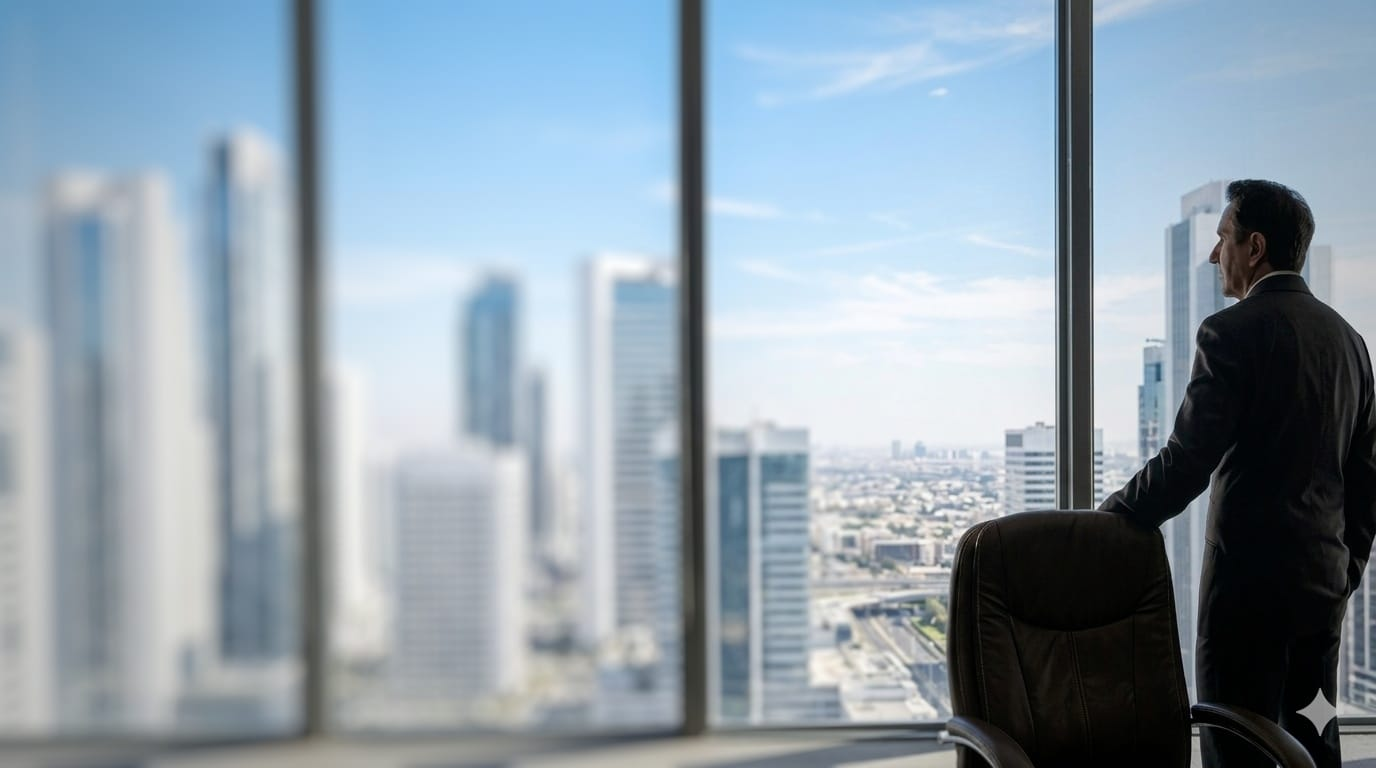
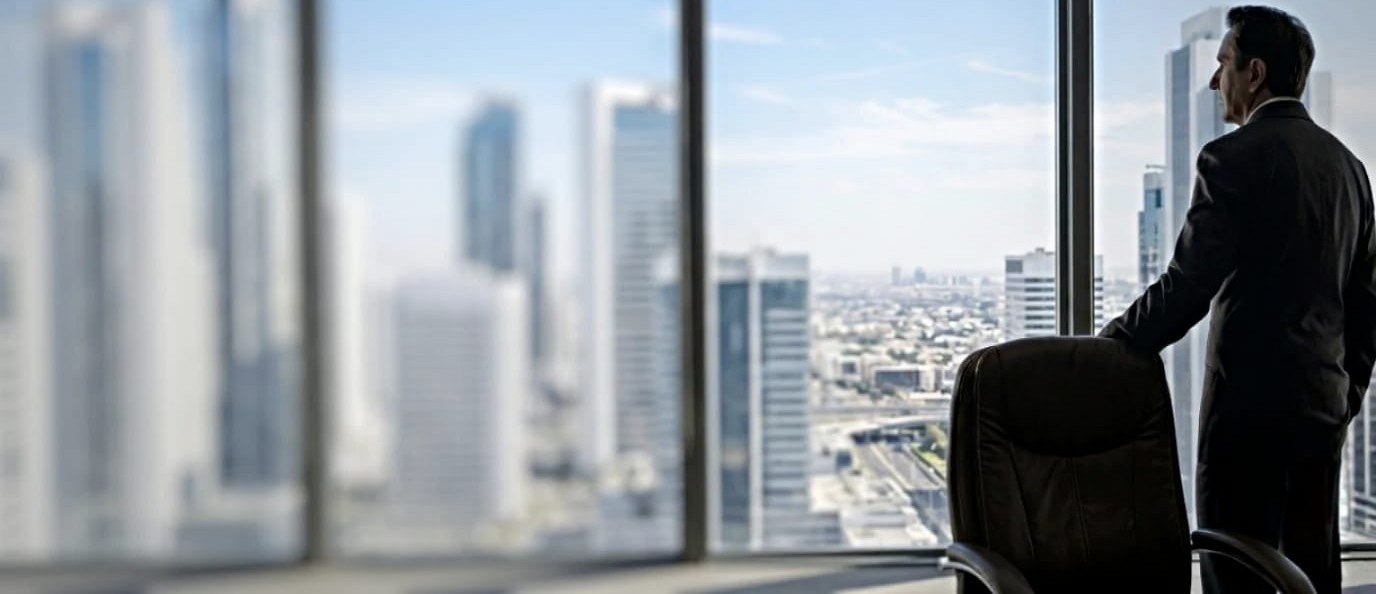
feat: refine hero responsiveness and layout

diff --git a/src/app/page.tsx b/src/app/page.tsx
@@ -275,19 +275,23 @@ export default function Home() {
       <SiteHeader />
       <div className={`flex flex-col min-h-screen transition-opacity duration-700 ${isHeroReady ? "opacity-100" : "opacity-0"}`}>
         {/* HERO SECTION */}
-        <section className="relative overflow-hidden min-h-screen pt-24 pb-12 md:pt-28">
+        <section className="relative overflow-hidden pt-24 pb-12 md:pt-28 lg:min-h-screen">
           <div className="absolute inset-0">
             <div
               aria-hidden="true"
-              className="absolute inset-0 bg-cover bg-center bg-no-repeat"
-              style={{ backgroundImage: "url('/image/hero-banner-1.jpg')" }}
+              className="absolute inset-0 bg-no-repeat"
+              style={{
+                backgroundImage: "url('/image/hero-banner-1.jpg')",
+                backgroundPosition: "center",
+                backgroundSize: "100% 100%",
+              }}
             />
             <div className="absolute inset-0 bg-[linear-gradient(115deg,rgba(5,16,37,0.68),rgba(5,16,37,0.5)_38%,rgba(255,255,255,0.12)_100%)]" />
           </div>
 
-          <div className="relative z-20 mx-auto flex min-h-[calc(100vh-7rem)] w-full max-w-7xl flex-col items-center gap-12 px-6 md:px-10 lg:flex-row lg:items-center lg:gap-6 lg:px-14">
+          <div className="relative z-20 mx-auto flex w-full max-w-7xl flex-col items-center gap-8 px-6 md:gap-10 md:px-10 lg:min-h-[calc(100vh-7rem)] lg:flex-row lg:items-center lg:gap-6 lg:px-14 xl:gap-10">
             {/* Left: Hero Content */}
-            <div className="relative z-20 -mt-[20px] flex w-full max-w-[38rem] flex-1 flex-col items-center text-center lg:items-start lg:text-left">
+            <div className="relative z-20 -mt-8 flex w-full max-w-[38rem] flex-1 flex-col items-center text-center sm:-mt-10 md:-mt-12 lg:-mt-14 lg:items-start lg:text-left xl:-mt-16 2xl:-mt-20">
               <div className="mb-8 flex w-full justify-center">
                 <div className="inline-flex items-center gap-2.5 rounded-full border border-white/20 bg-white/10 px-4 py-2 text-[10px] font-bold uppercase tracking-[0.2em] text-blue-50 shadow-sm backdrop-blur-md md:text-xs">
                   <span className="relative flex h-2.5 w-2.5">
@@ -306,8 +310,7 @@ export default function Home() {
                 <div className="relative z-10 flex w-full flex-col items-center justify-center">
                   <h1 className="m-0 flex w-full flex-col items-center justify-center text-center">
                     <span
-                      className="block w-full text-center text-[clamp(3.8rem,9vw,6.5rem)] font-extrabold leading-[0.85] tracking-[-0.04em] text-white drop-shadow-[0_8px_16px_rgba(0,0,0,0.5)]"
-                      style={{ fontFamily: "var(--font-brand)" }}
+                      className="block w-full text-center text-[clamp(3.8rem,9vw,6.5rem)] font-bold leading-[0.85] tracking-tight text-white drop-shadow-[0_8px_16px_rgba(0,0,0,0.5)] transition-colors duration-300"
                     >
                       Pravix
                     </span>
@@ -360,7 +363,7 @@ export default function Home() {
               initial={{ opacity: 0, x: 20 }}
               animate={{ opacity: 1, x: 0 }}
               transition={{ duration: 0.8, delay: 0.2 }}
-              className="flex w-full max-w-md flex-1 justify-center lg:max-w-lg lg:justify-end"
+              className="flex w-full max-w-[20rem] flex-1 justify-center sm:max-w-[24rem] md:max-w-[27rem] lg:max-w-[30rem] lg:justify-end xl:max-w-[34rem]"
             >
               <HeroPhoneMockup />
             </motion.div>

diff --git a/src/components/HeroPhoneMockup.tsx b/src/components/HeroPhoneMockup.tsx
@@ -15,14 +15,13 @@ export default function HeroPhoneMockup() {
 
   return (
     <div
-      className="relative w-full flex justify-center items-center"
+      className="relative flex w-full items-center justify-center min-h-[420px] sm:min-h-[500px] lg:min-h-[560px] xl:min-h-[620px]"
       style={{
-        minHeight: "600px",
         fontFamily: "system-ui, -apple-system, sans-serif",
       }}
     >
       {/* ── Global Scaler wrapper ── */}
-      <div style={{ transform: "scale(0.85)", position: "relative", width: "350px", height: "680px", display: "flex", justifyContent: "center", alignItems: "center" }}>
+      <div className="relative flex h-[680px] w-[350px] items-center justify-center origin-center scale-[0.62] sm:scale-[0.7] md:scale-[0.78] lg:scale-[0.75] xl:scale-[0.86] 2xl:scale-[0.94]">
         
         {/* ── Floor Shadow ── */}
         <div
